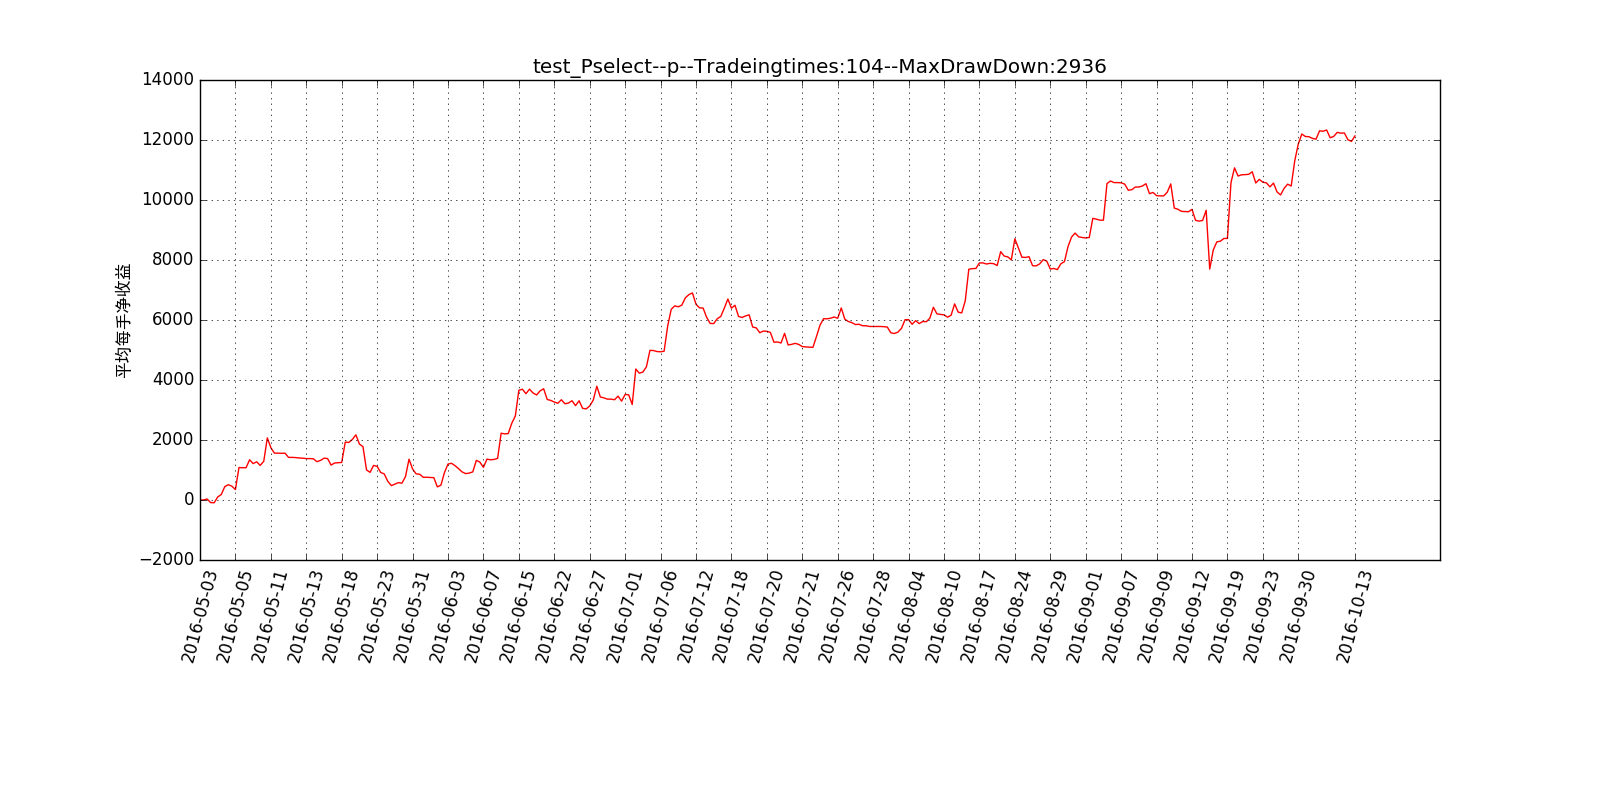
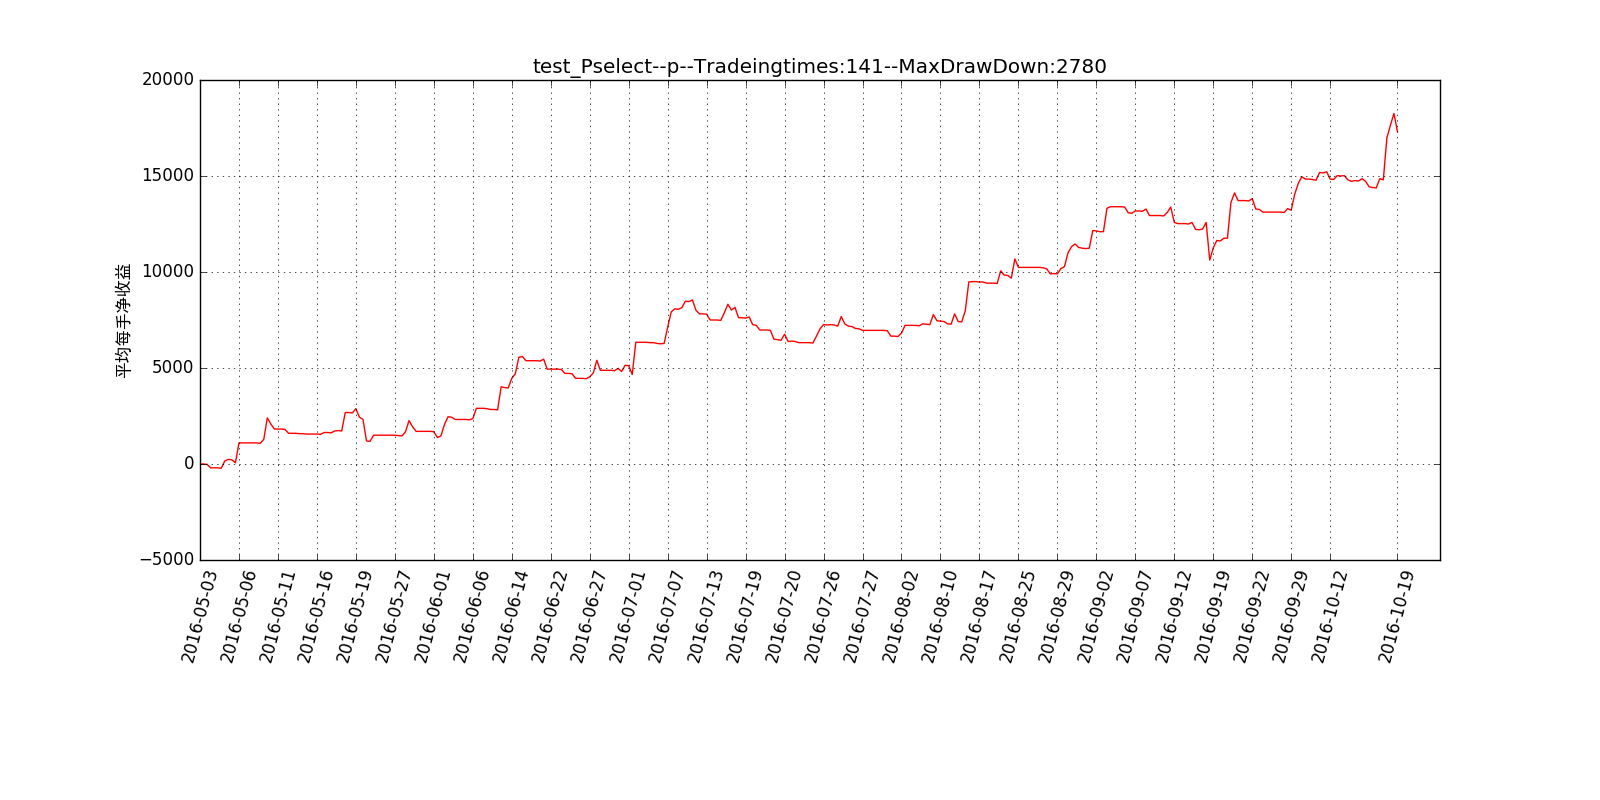
1

diff --git a/pythonfile/totalmonitor.py b/pythonfile/totalmonitor.py
@@ -2,6 +2,7 @@
 #!/usr/bin/env python
 import sys, urllib, urllib2, json
 import datetime
+import time
 from sendSMSM import sendsms
 reload(sys)
 sys.setdefaultencoding('utf8')
@@ -15,17 +16,37 @@ ms = MSSQL(host="192.168.0.5",user="future",pwd="K@ra0Key",db="future")
 #采集行情的心跳监测
 #监控时间段：在crontab 设置 08:00---23:00,延迟2分钟报警
 def monitor():
-	sql="select DATEDIFF(MINUTE, updatetime, getdate()) as aaa from [LogRecord].[dbo].[quotes_python_heart]where type='quotes_python' and isactive=1"
-	res=ms.dict_sql(sql)
-	if res[0]['aaa']>=2:
-		sendmessage='13764504303'
-		totalsubject="行情脚本没有心跳"
-		smsresult=sendsms(sendmessage,totalsubject)
+	nowtime=datetime.datetime.now().strftime("%H%M")
+	nowtime=int(nowtime)
+	dayOfWeek = datetime.datetime.now().weekday()
+	if dayOfWeek in (0,1,2,3,4) and nowtime>=800 and nowtime<2330:
+		sql="select DATEDIFF(MINUTE, updatetime, getdate()) as aaa from [LogRecord].[dbo].[quotes_python_heart]where type='quotes_python'  and name='catchquotesall'and isactive=1"
+		res=ms.dict_sql(sql)
+		if res[0]['aaa']>=2:
+			sendmessage='13764504303'
+			totalsubject="行情脚本没有心跳"
+			smsresult=sendsms(sendmessage,totalsubject)
+			print 'have send 1'
+			# print smsresult
+
+
+def monitor_future_account():
+	nowtime=datetime.datetime.now().strftime("%H%M")
+	nowtime=int(nowtime)
+	dayOfWeek = datetime.datetime.now().weekday()
+	if dayOfWeek in (0,1,2,3,4) and nowtime>=1430 and nowtime<1520:
+		sql="select DATEDIFF(MINUTE, updatetime, getdate()) as aaa from [LogRecord].[dbo].[quotes_python_heart]where type='regular_task'  and name='future_account'and isactive=1"
+		res=ms.dict_sql(sql)
+		if res[0]['aaa']>=7:
+			sendmessage='13764504303,13918972855'
+			totalsubject="期货账户采集脚本停止"
+			smsresult=sendsms(sendmessage,totalsubject)
+			print 'have send 2'
 		# print smsresult
 
 
-
 monitor()
+monitor_future_account()
 
 
 

diff --git a/pythonfile/new_cal_quayi_实盘仓位.py b/pythonfile/new_cal_quayi_实盘仓位.py
@@ -428,7 +428,7 @@ def multiple_ratio(myquotes,ratio):
 	newmyquotes=[]
 	tempposition=0
 	for item in myquotes:
-		newmyquotes.append([item[0],item[1],item[2]*ratio])
+		newmyquotes.append([item[0],item[1],myround(item[2]*ratio)])
 	return newmyquotes
 
 
@@ -437,13 +437,13 @@ def multiple_ratio(myquotes,ratio):
 # show_all_ac('RU3v4e')
 
 
-(myquotes,totalsum)=input_groupbyquanyi('RBQGTR_TG','rb')
+(myquotes,totalsum)=input_groupbyquanyi('pzh','p')
 #仓位信息OK
 print totalsum
-# for item in myquotes:
-# 	print item 
-ratio=0.2
+ratio=0.1
 myquotes=multiple_ratio(myquotes,ratio)
-cal_quanyi('RBQGTR_TG',myquotes,ratio*totalsum,'rb')
+for item in myquotes:
+	print item 
+# cal_quanyi('test_Pselect',myquotes,ratio*totalsum,'p')
 
 # show_account('myaccount2')
